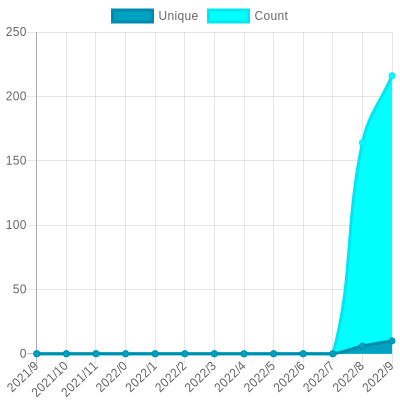
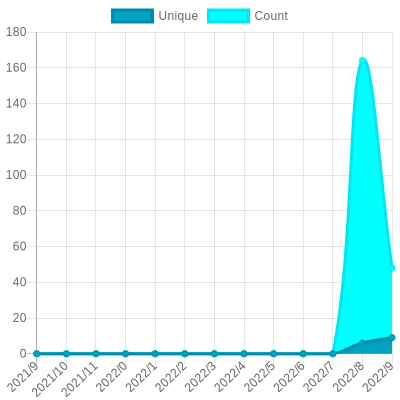
Update views

diff --git a/readme/314094375/year.md b/readme/314094375/year.md
@@ -23,10 +23,10 @@
 			<code>2021/10/1</code>
 		</td>
 		<td>
-			<code>10</code>
+			<code>9</code>
 		</td>
 		<td>
-			<code>216</code>
+			<code>48</code>
 		</td>
 	</tr>
 	<tr>
@@ -164,7 +164,7 @@
 </table>
 
 </details>
-<small><i>Last updated on 2021/10/30 6:16 AM UTC</i></small>
+<small><i>Last updated on 2021/10/30 12:21 PM UTC</i></small>
 
 ## ✂Copy and 📋 Paste
 ### SVG Badge

diff --git a/README.md b/README.md
@@ -69,7 +69,7 @@ The project created and maintained by [gayanvoice](https://github.com/gayanvoice
 	</tr>
 </table>
 
-<small><i>Last updated on 2021/10/30 6:17 AM UTC</i></small>
+<small><i>Last updated on 2021/10/30 12:22 PM UTC</i></small>
 
 ## ✂Copy and 📋 Paste
 ### Total Views Badge

diff --git a/readme/409135995/year.md b/readme/409135995/year.md
@@ -164,7 +164,7 @@
 </table>
 
 </details>
-<small><i>Last updated on 2021/10/30 6:16 AM UTC</i></small>
+<small><i>Last updated on 2021/10/30 12:21 PM UTC</i></small>
 
 ## ✂Copy and 📋 Paste
 ### SVG Badge

diff --git a/readme/409164432/year.md b/readme/409164432/year.md
@@ -164,7 +164,7 @@
 </table>
 
 </details>
-<small><i>Last updated on 2021/10/30 6:17 AM UTC</i></small>
+<small><i>Last updated on 2021/10/30 12:22 PM UTC</i></small>
 
 ## ✂Copy and 📋 Paste
 ### SVG Badge
